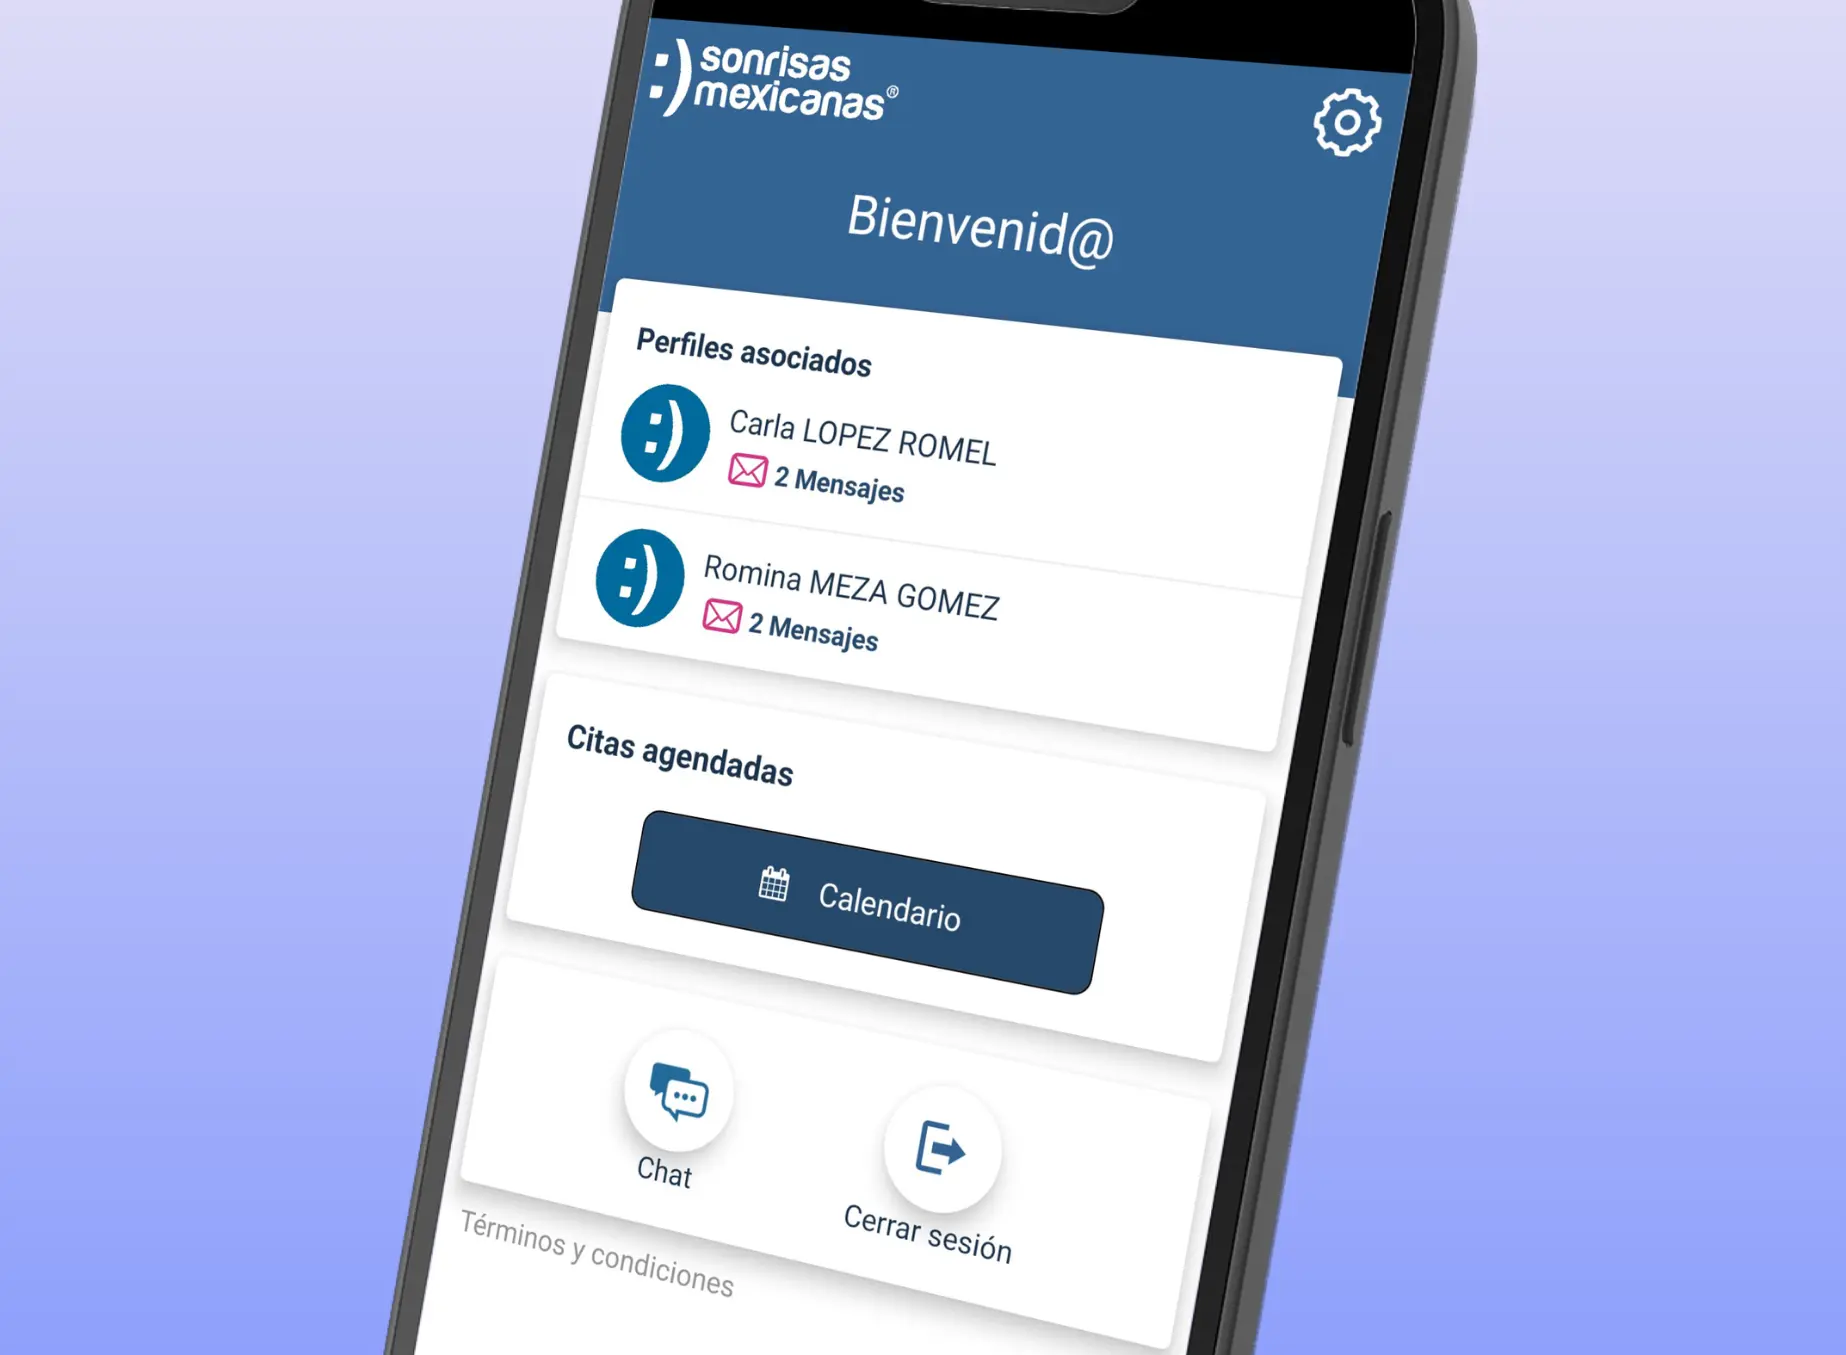
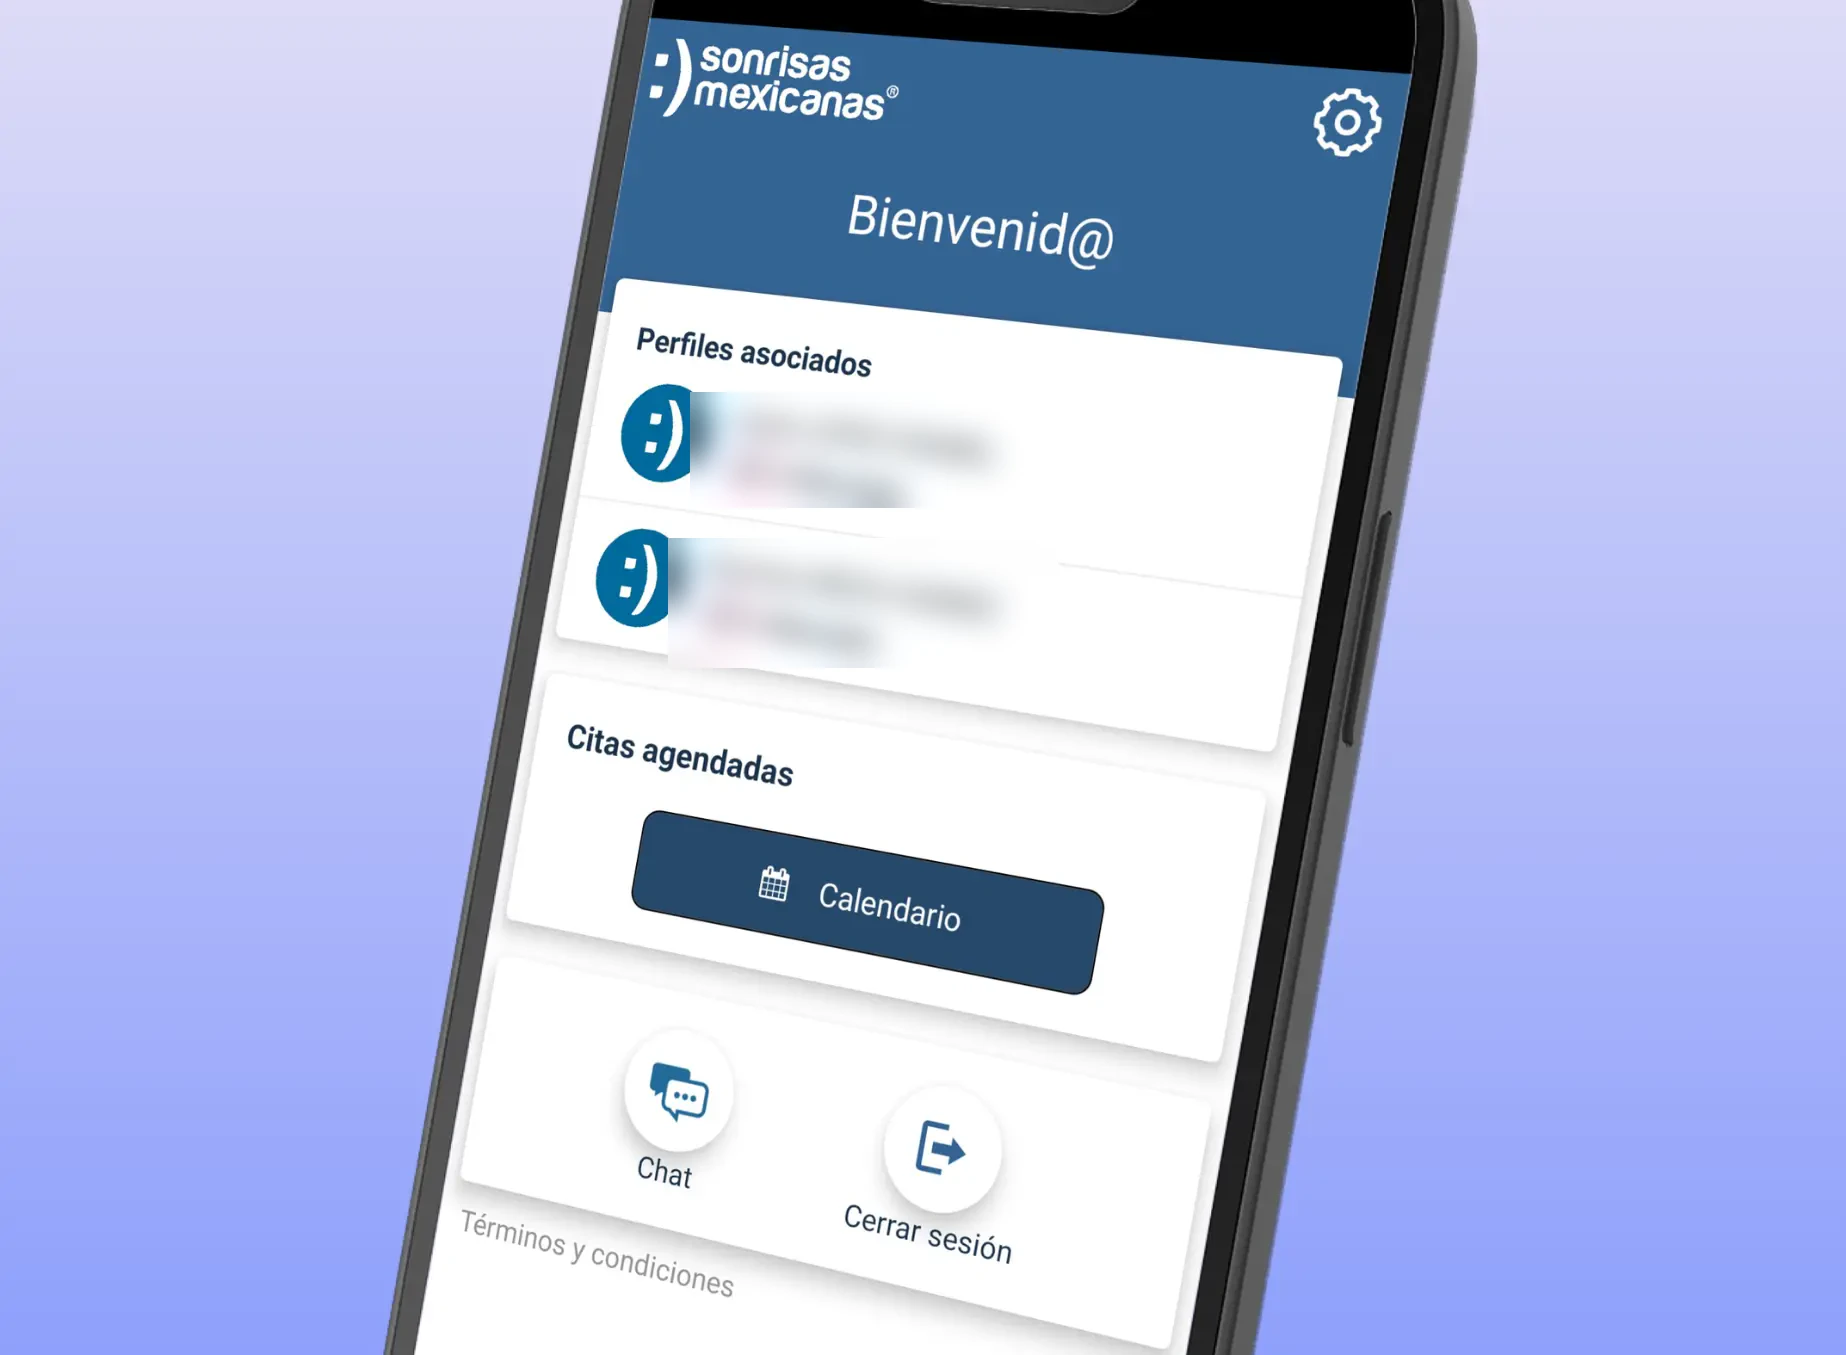
fix: blur patient names, drop the form and Turnimo, add agency line
Blur the two patient names in the Sonrisas Mexicanas screenshot, remove
Turnimo from more work, replace the mailto form with a contact card for
email and WhatsApp, and add a contract line for agencies on /en/.

Changed region(s): [[0.3397, 0.403, 0.5558, 0.4959], [0.3705, 0.279, 0.5558, 0.372]]

diff --git a/src/styles/global.css b/src/styles/global.css
@@ -879,106 +879,52 @@ html:not(.js) .chat-chips {
 	font-size: 1.0625rem;
 }
 
-.contact-mail {
-	display: inline-flex;
-	align-items: center;
-	gap: 14px;
-	margin-top: 34px;
-	padding-bottom: 10px;
-	border-bottom: 1px solid var(--border-2);
+.contact-agencies {
+	max-width: 28em;
+	margin-top: 16px;
 	color: var(--text);
-	font-size: 1.25rem;
+	font-size: 1rem;
 }
 
-.contact-mail svg {
-	color: var(--accent);
-}
-
-.contact-mail:hover {
-	border-color: var(--accent);
-}
-
-.contact-note {
-	margin-top: 14px;
-	font-size: 0.875rem;
-}
-
-.contact-note a {
-	text-decoration: underline;
-	text-underline-offset: 0.2em;
-	text-decoration-color: var(--border-2);
-}
-
-.contact-form {
-	padding: clamp(20px, 2.4vw, 28px);
+.contact-card {
+	padding: 6px clamp(20px, 2.4vw, 28px);
 	border: 1px solid var(--border);
 	border-radius: 24px;
 	background: var(--surface);
 	box-shadow: 0 30px 80px rgb(0 0 0 / 35%);
 }
 
-.field-row {
-	display: grid;
-	grid-template-columns: repeat(2, minmax(0, 1fr));
-	gap: 16px;
+.contact-row {
+	padding: 22px 0;
+	border-bottom: 1px solid var(--border);
 }
 
-.contact-form label {
-	display: grid;
-	gap: 8px;
-	margin-bottom: 18px;
+.contact-row:last-child {
+	border-bottom: 0;
 }
 
-.contact-form label > span {
-	color: var(--text);
-	font-size: 0.875rem;
-}
-
-.contact-form small {
+.contact-label {
 	color: var(--faint);
 	font-size: 0.75rem;
 }
 
-.contact-form input,
-.contact-form textarea {
-	width: 100%;
-	padding: 13px 14px;
-	border: 1px solid var(--border-2);
-	border-radius: 12px;
-	background: var(--field);
+.contact-line {
+	display: flex;
+	flex-wrap: wrap;
+	justify-content: space-between;
+	align-items: center;
+	gap: 12px 20px;
+	margin-top: 10px;
+}
+
+.contact-value {
 	color: var(--text);
-	font: inherit;
-	font-size: 0.9375rem;
-	resize: vertical;
+	font-size: clamp(1.25rem, 2vw, 1.5rem);
+	letter-spacing: -0.02em;
 }
 
-.contact-form input::placeholder,
-.contact-form textarea::placeholder {
-	color: var(--faint);
-}
-
-.contact-form input:focus,
-.contact-form textarea:focus {
-	border-color: rgb(255 178 36 / 55%);
-	outline: none;
-	box-shadow: 0 0 0 3px rgb(255 178 36 / 12%);
-}
-
-.contact-form .btn {
-	margin-top: 4px;
-}
-
-.form-status {
-	margin-top: 14px;
-	font-size: 0.875rem;
-}
-
-.form-status a {
-	color: var(--text);
-}
-
-html:not(.js) .contact-form {
-	display: none;
+.contact-value:hover {
+	color: var(--accent);
 }
 
 /* Pie */
@@ -1095,8 +1041,7 @@ html:not(.js) .contact-form {
 		gap: 6px;
 	}
 
-	.process-grid,
-	.field-row {
+	.process-grid {
 		grid-template-columns: minmax(0, 1fr);
 	}
 

diff --git a/src/i18n/en.ts b/src/i18n/en.ts
@@ -131,7 +131,6 @@ export const en: Copy = {
 			{ name: "Sonrisas Argentinas", stack: "React Native · AWS", kind: "Mobile", href: "" },
 			{ name: "School transport platform", stack: "Vue · Node.js · AWS", kind: "Web · Admin · API", href: "" },
 			{ name: "Attendance apps for PeopleCor", stack: "Flutter · Firebase", kind: "Mobile", href: "" },
-			{ name: "Turnimo, attendance and pre-payroll", stack: "NestJS · Flutter · PostgreSQL", kind: "Web · Mobile · API", href: "" },
 		],
 	},
 	about: {
@@ -161,19 +160,11 @@ export const en: Copy = {
 		h2a: "What do you want",
 		h2b: "to build",
 		text: "Tell me what you need and by when. I'll tell you how I'd do it and what it would cost.",
-		whatsapp: "Also on WhatsApp",
-		name: "Your name",
-		namePh: "Alex Smith",
-		email: "Your email",
-		emailPh: "alex@company.com",
-		project: "Project",
-		optional: "optional",
-		projectPh: "What do you want to build?",
-		message: "Tell me a little",
-		messagePh: "The idea, the problem and when you need it…",
-		submit: "Send message",
-		subject: "Project",
-		sent: "Your email app opened with the message ready. If it didn't, write to me at",
+		agencies: "Also available as a contract developer for agencies and product teams: ~20 h/week, US Central time.",
+		emailLabel: "Email",
+		whatsappLabel: "WhatsApp",
+		whatsappText: "Message me",
+		whatsappValue: "Direct chat with me",
 	},
 	footer: {
 		rights: "Victor Sanchez",

diff --git a/src/i18n/es.ts b/src/i18n/es.ts
@@ -129,7 +129,6 @@ export const es = {
 			{ name: "Sonrisas Argentinas", stack: "React Native · AWS", kind: "Móvil", href: "" },
 			{ name: "Plataforma de transporte escolar", stack: "Vue · Node.js · AWS", kind: "Web · Admin · API", href: "" },
 			{ name: "Apps de asistencia para PeopleCor", stack: "Flutter · Firebase", kind: "Móvil", href: "" },
-			{ name: "Turnimo, asistencia y prenómina", stack: "NestJS · Flutter · PostgreSQL", kind: "Web · Móvil · API", href: "" },
 		],
 	},
 	about: {
@@ -159,19 +158,11 @@ export const es = {
 		h2a: "¿Qué quieres",
 		h2b: "construir",
 		text: "Cuéntame qué necesitas y para cuándo. Te digo cómo lo haría y cuánto costaría.",
-		whatsapp: "También por WhatsApp",
-		name: "Tu nombre",
-		namePh: "Ana López",
-		email: "Tu correo",
-		emailPh: "ana@empresa.com",
-		project: "Proyecto",
-		optional: "opcional",
-		projectPh: "¿Qué quieres construir?",
-		message: "Cuéntame un poco",
-		messagePh: "La idea, el problema y para cuándo lo necesitas…",
-		submit: "Enviar mensaje",
-		subject: "Proyecto",
-		sent: "Se abrió tu correo con el mensaje listo. Si no se abrió, escríbeme a",
+		agencies: "",
+		emailLabel: "Correo",
+		whatsappLabel: "WhatsApp",
+		whatsappText: "Escríbeme",
+		whatsappValue: "Chat directo conmigo",
 	},
 	footer: {
 		rights: "Victor Sanchez",

diff --git a/src/scripts/site.ts b/src/scripts/site.ts
@@ -31,17 +31,3 @@ if (chat) {
 		window.open(`${chat.action}?text=${encodeURIComponent(texto)}`, "_blank", "noopener");
 	});
 }
-
-// Sin servidor, el formulario arma un correo con los datos. Un form con action
-// mailto: en HTTPS se marca como contenido mixto, por eso se arma con JavaScript.
-const formulario = document.querySelector<HTMLFormElement>("[data-mail-form]");
-formulario?.addEventListener("submit", (e) => {
-	e.preventDefault();
-	const datos = new FormData(formulario);
-	const proyecto = String(datos.get("proyecto") ?? "").trim();
-	const asunto = `${formulario.dataset.subject}${proyecto ? `: ${proyecto}` : ""}`;
-	const cuerpo = `${datos.get("mensaje")}\n\n${datos.get("nombre")}\n${datos.get("correo")}`;
-	location.href = `mailto:${formulario.dataset.mailto}?subject=${encodeURIComponent(asunto)}&body=${encodeURIComponent(cuerpo)}`;
-	const aviso = formulario.querySelector<HTMLElement>("[data-mail-status]");
-	if (aviso) aviso.hidden = false;
-});
